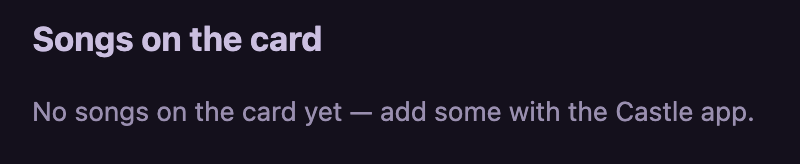
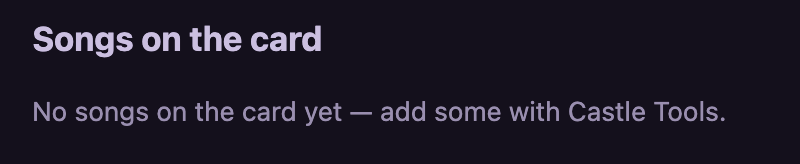
The owner's guide pictures are retaken on v5.77 — the empty card's "add some with Castle Tools", and the version every screen that shows one now reads — and a forgotten castle key is undone by an erasing USB reinstall, because Factory reset asks for the key too
`make guide-shots` took all thirteen into a scratch folder; the six that
differ are copied in, each for the version or the wording, and the two alt
texts that named them follow. /api/factory-reset refuses a request without
the key, so the guide now sends someone who has lost it to Updating the
castle's USB install and its erase, which forgets the key, the Wi-Fi and
the settings and leaves the card's songs.

Changed region(s): [[0.6875, 0.6098, 0.9375, 0.7622]]

diff --git a/docs/OWNER-GUIDE.md b/docs/OWNER-GUIDE.md
@@ -71,7 +71,7 @@ card**, ▶ plays one of your songs. A new castle has none yet, and says so
 until you add some with Castle Tools.
 
 <img src="guide/owner-show.png" width="320" alt="The castle's page: show buttons, volume, and three songs on the card">
-<img src="guide/owner-empty.png" width="320" alt="Songs on the card: No songs on the card yet — add some with the Castle app">
+<img src="guide/owner-empty.png" width="320" alt="Songs on the card: No songs on the card yet — add some with Castle Tools">
 
 ## Settings: loudness, quiet hours and the clock
 
@@ -134,7 +134,7 @@ If the new firmware cannot start, the castle goes back to the one it had,
 by itself. Nothing is ever updated unless you press the button. A castle
 with a key needs the key in Castle Tools first (see **The castle key**).
 
-<img src="guide/radio-update.png" width="420" alt="Castle firmware card: firmware 5.77 is ready, the castle runs 5.76, and an Update castle to 5.77 button">
+<img src="guide/radio-update.png" width="420" alt="Castle firmware card: firmware 5.78 is ready, the castle runs 5.77, and an Update castle to 5.78 button">
 
 **With a USB-C cable** (when the castle will not start, or Castle Tools
 cannot reach it): open **https://jtn0123.github.io/halloween_esp/** in
@@ -159,7 +159,10 @@ page, under **Settings**, type a key and press **Set**. On another phone or
 computer, type it and press **Use** once. **Clear** removes it. In Castle
 Tools, open **Run settings**, type the key in the **Castle key** card and
 press **Use this key**; the same card can set a new key or remove it.
-Forgotten it? **Factory reset** removes it too.
+Forgotten it? **Factory reset** asks for the key too, so reinstall with a
+USB-C cable instead (see **Updating the castle**) and choose to erase the
+castle when it asks. That forgets the key, your Wi-Fi and your settings and
+keeps your songs; you set up the Wi-Fi again at the end.
 
 <img src="guide/radio-key.png" width="420" alt="Castle key card in Castle Tools: Use this key, Set as the new key, Remove the key">
 
